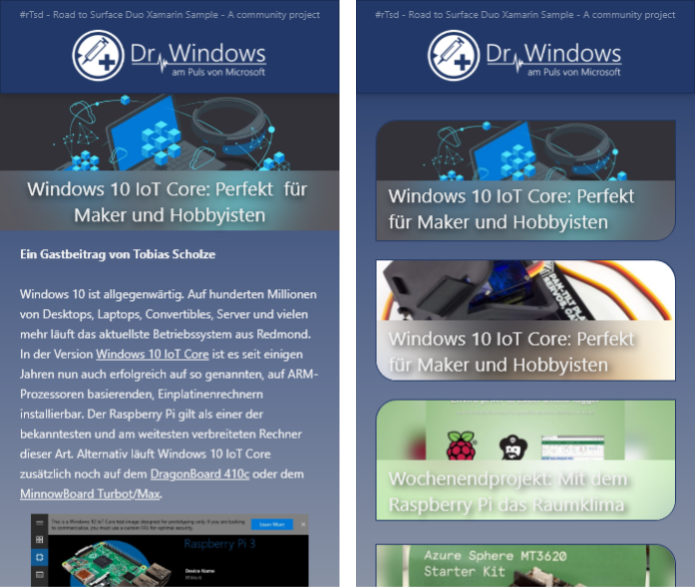
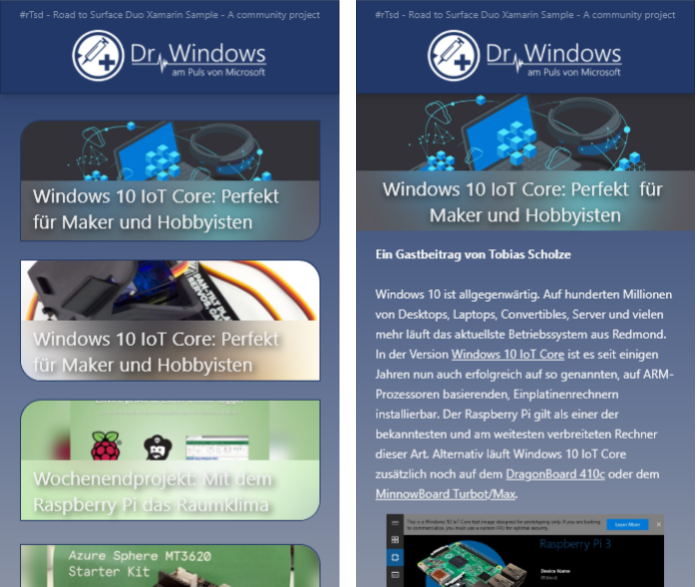
Readme: Added ui prototypes

diff --git a/README.md b/README.md
@@ -1,4 +1,4 @@
-![#rTsd Logo](docs/logo-small.jpg)
+![#rTsd Logo](docs/logo-small.png)
 
 # Road to Surface Duo Xamarin App (#rTsd)
 > This ia a work in progress [Xamarin.Forms](https://dotnet.microsoft.com/apps/xamarin) Android project which is intended to feature most of the new features that makes the upcoming [Microsoft Surface Duo](https://www.microsoft.com/en-us/surface/devices/surface-duo) phone unique.
